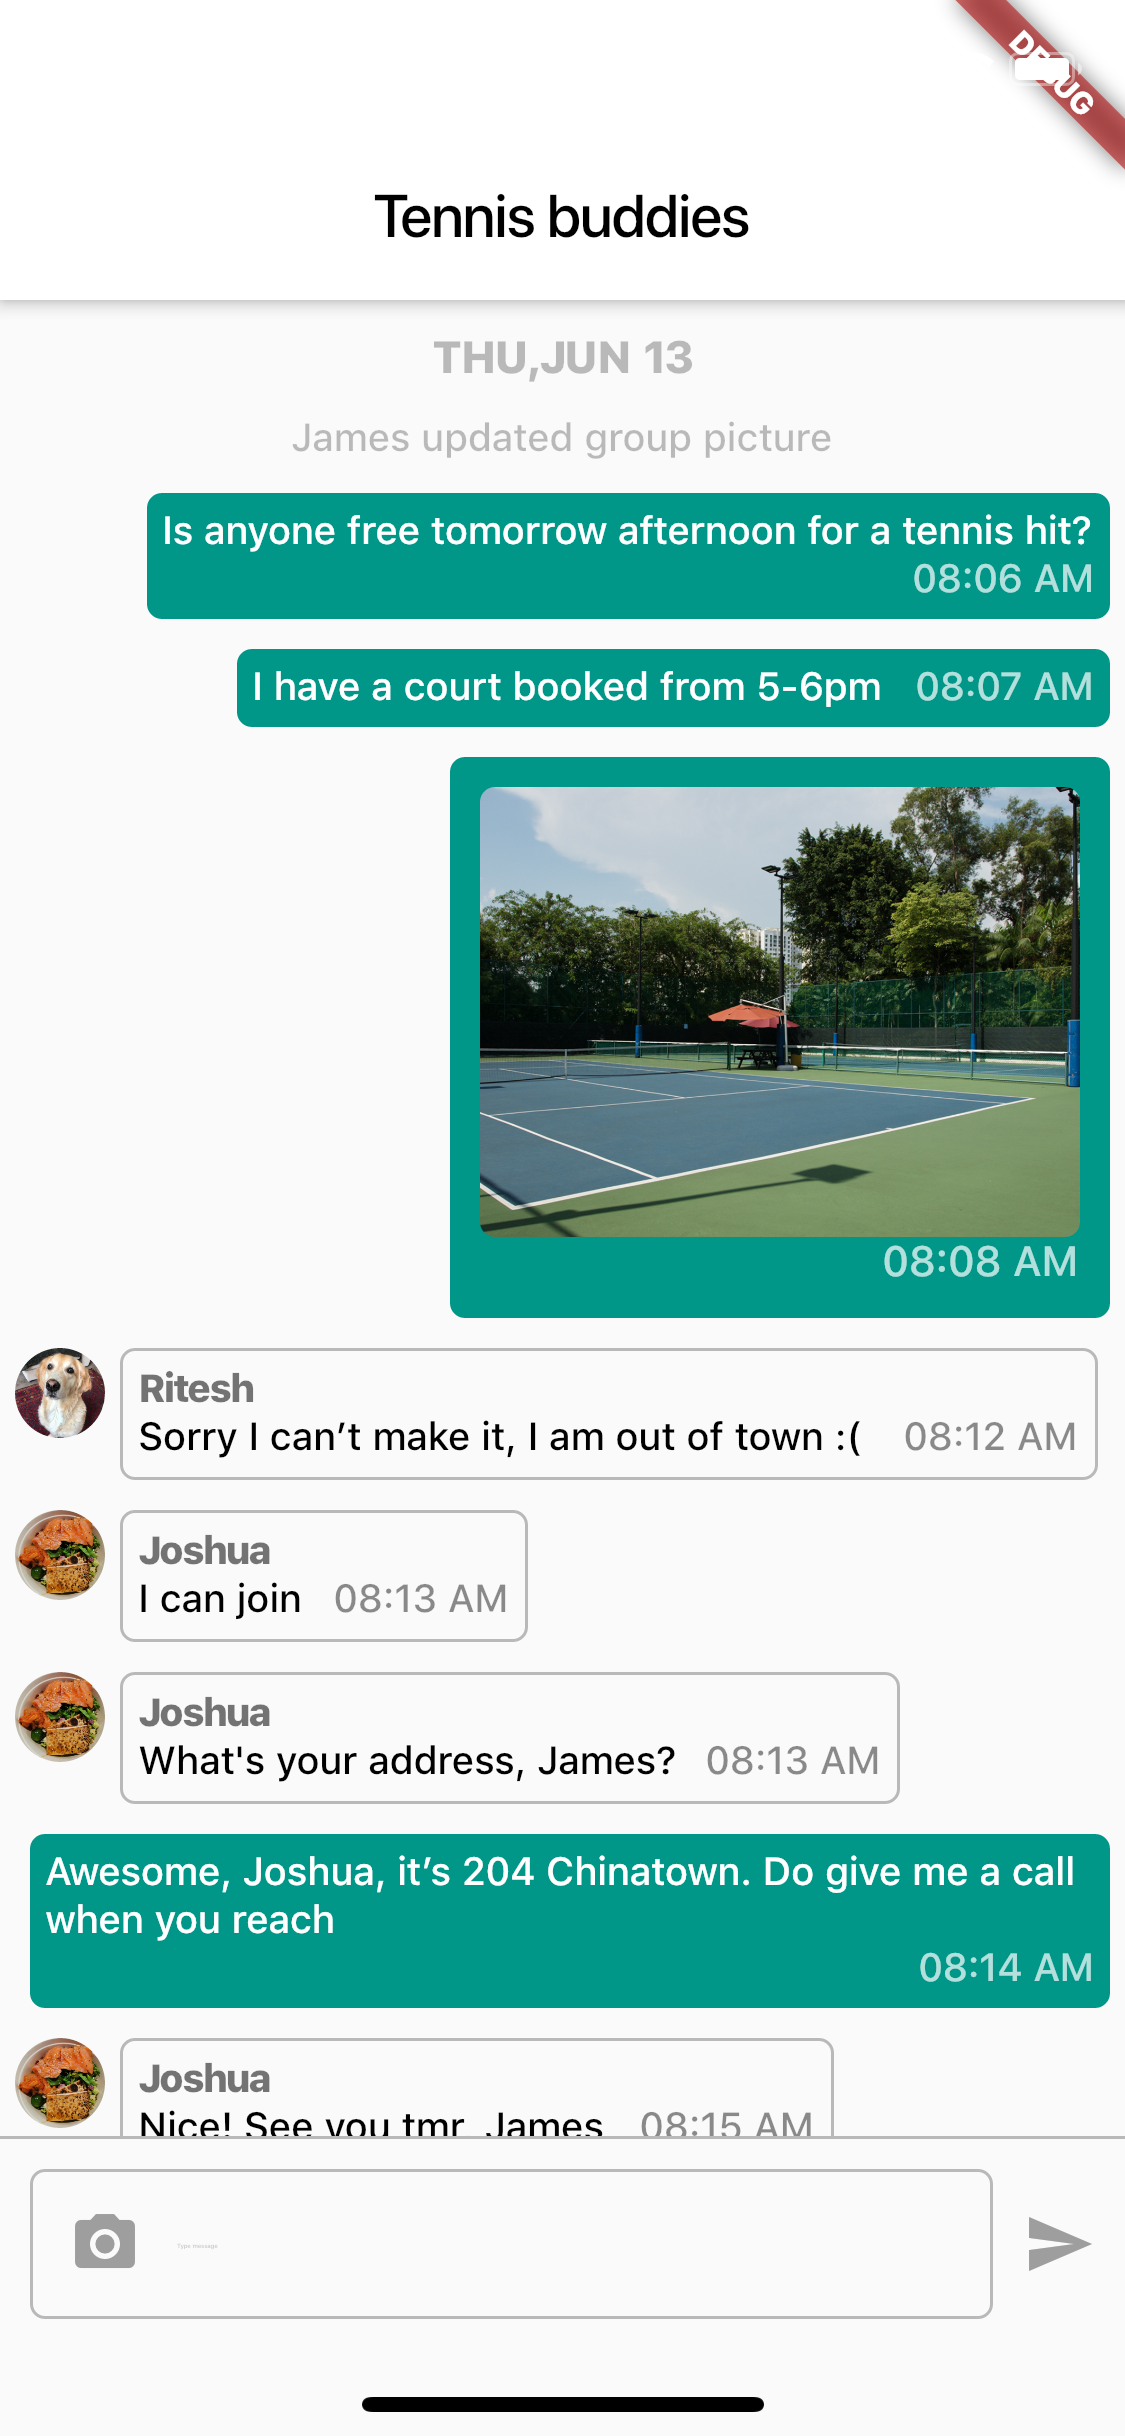
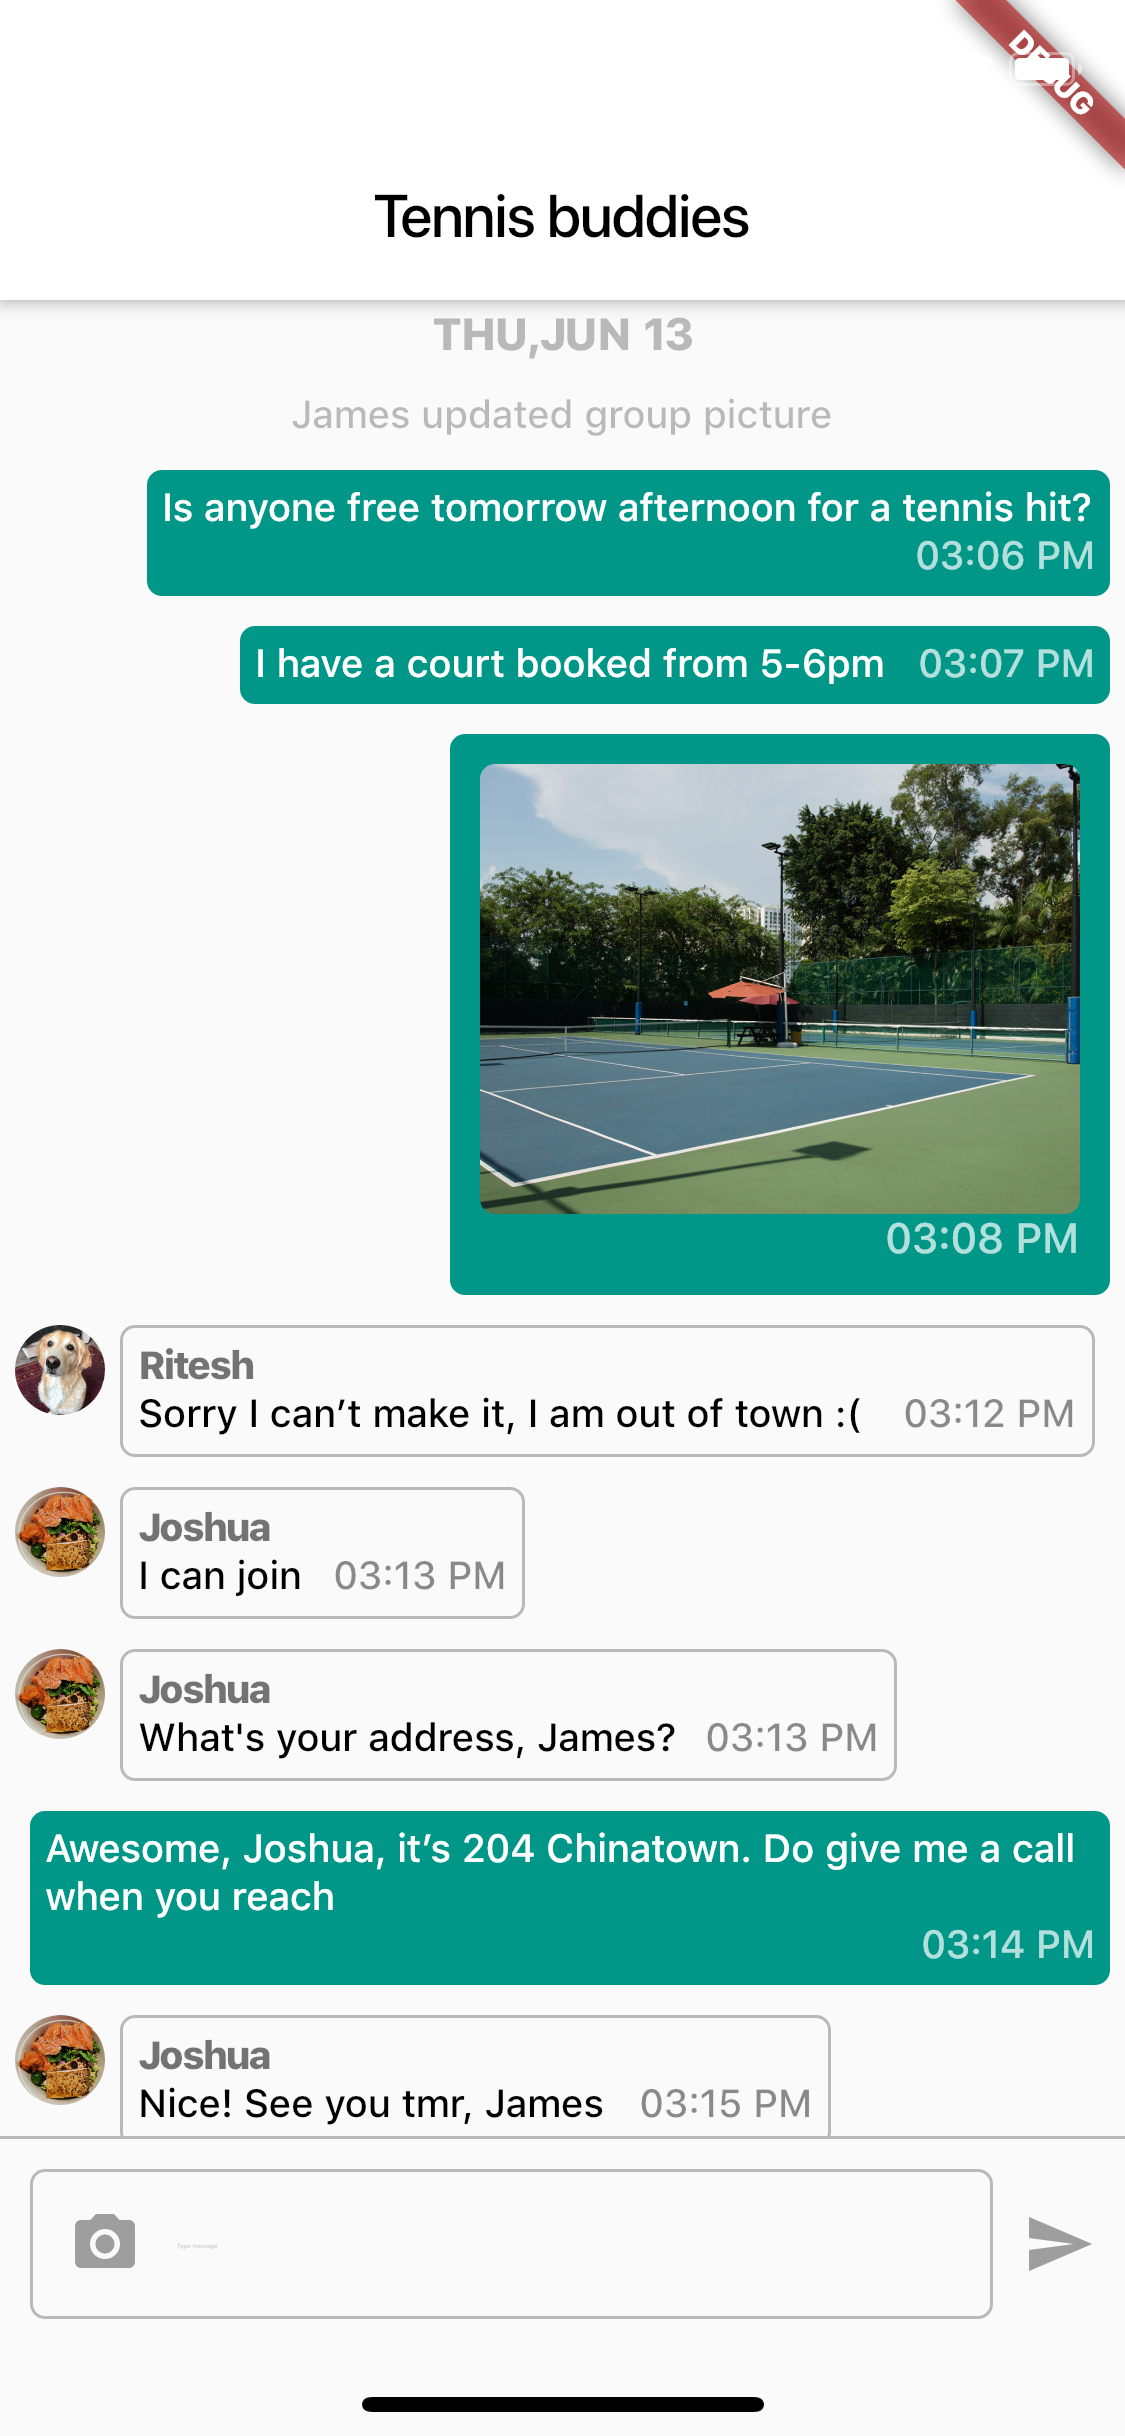
update timestamp

Changed region(s): [[0.0, 0.1248, 0.9956, 0.8736]]

diff --git a/lib/app_util.dart b/lib/app_util.dart
@@ -6,11 +6,11 @@ class AppUtil {
 
   static String convertDateTime(String s) {
     final formatter = DateFormat('EEE,MMM dd');
-    return formatter.format(DateTime.parse(s)).toUpperCase();
+    return formatter.format(DateTime.parse(s).toLocal()).toUpperCase();
   }
 
   static String convertDateTime2HH(String s) {
     final formatter = DateFormat('hh:mm a');
-    return formatter.format(DateTime.parse(s)).toUpperCase();
+    return formatter.format(DateTime.parse(s).toLocal()).toUpperCase();
   }
 }
